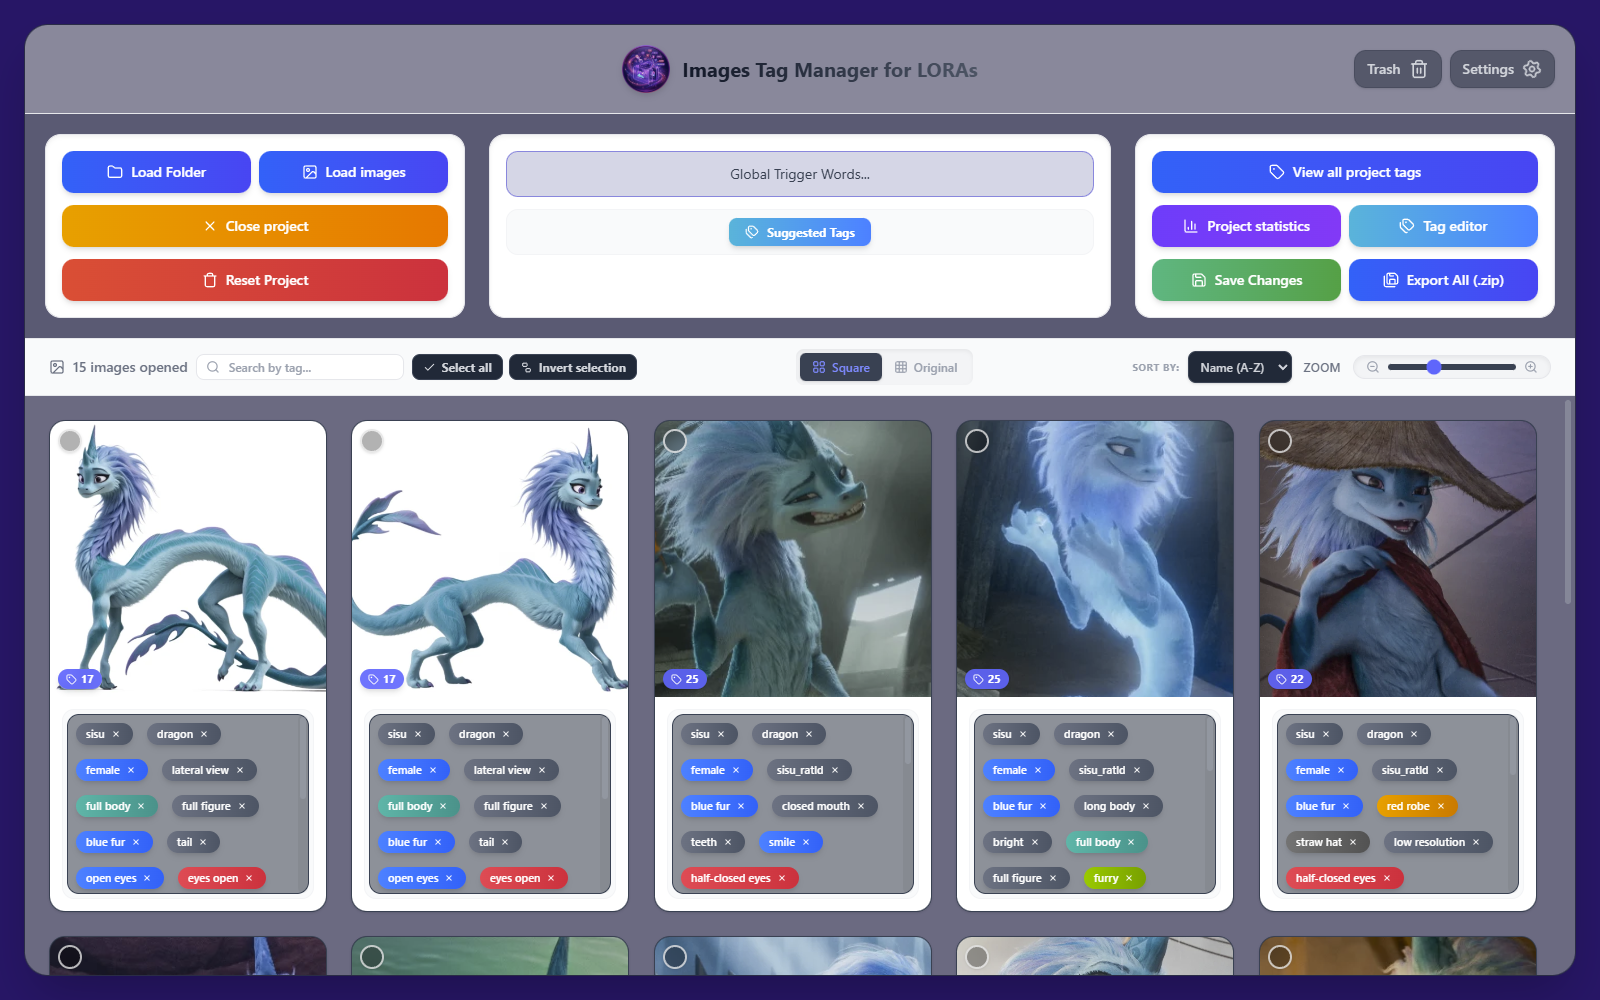
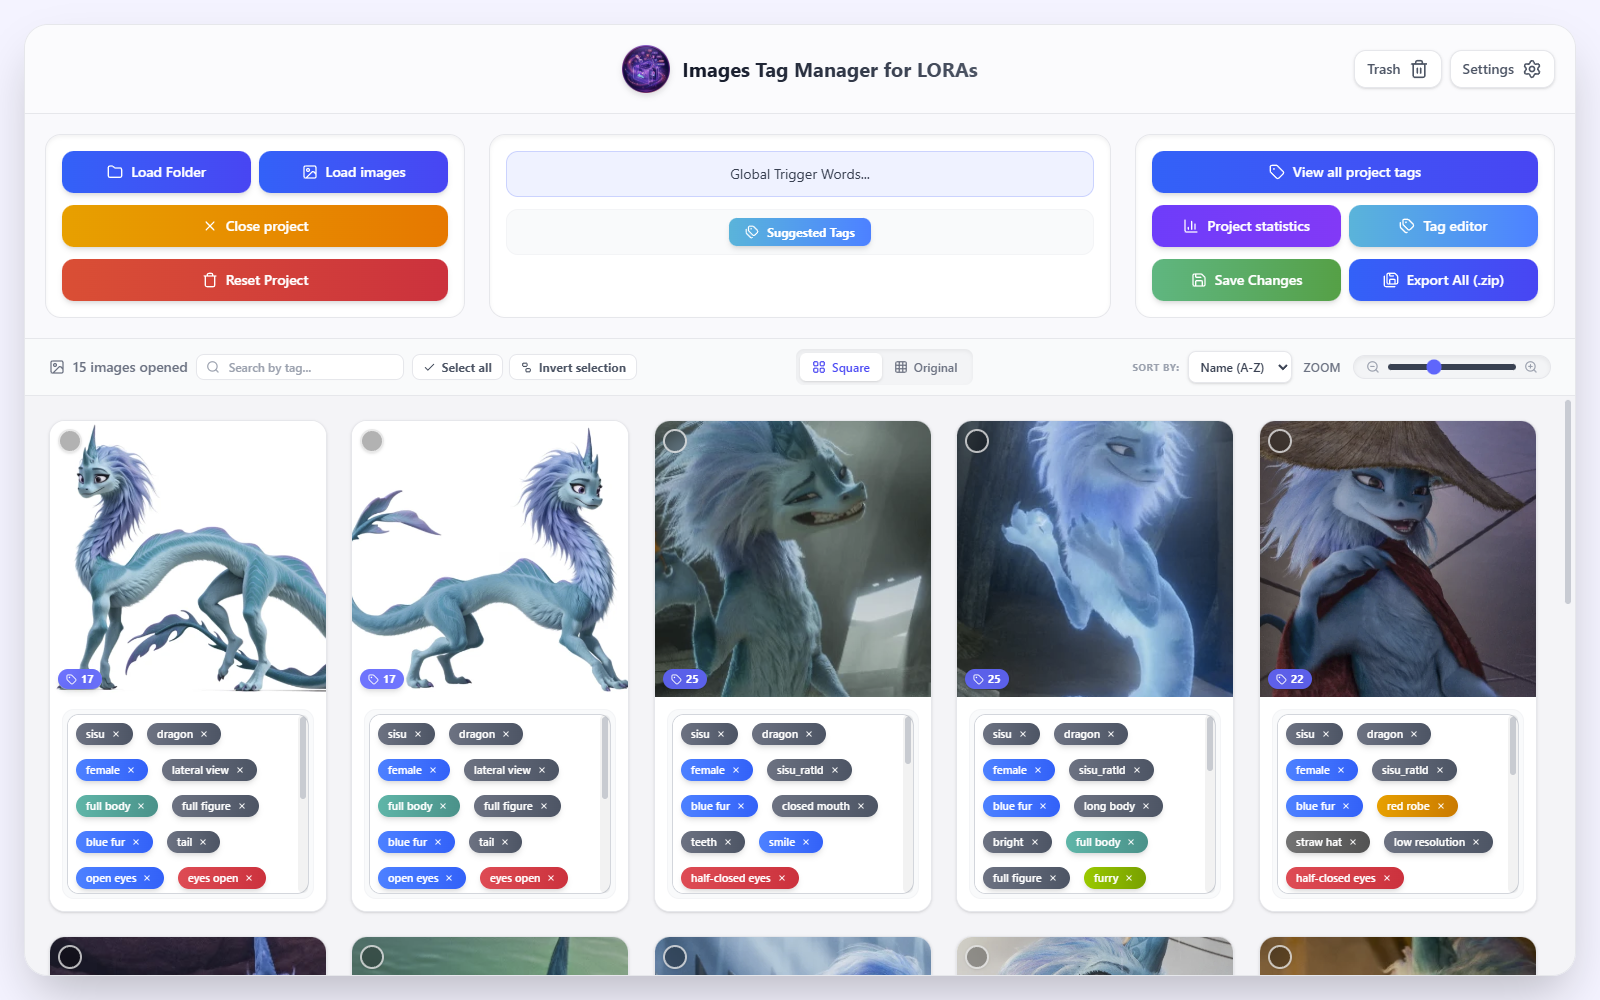
docs: cinque funzioni in piu' e via le istruzioni da riga di comando
Aggiunte le schermate che mancavano — riepilogo dell'importazione, pannello
dei tag suggeriti, trigger words applicate a tutte le foto, elenco dei tag
del progetto e vista a immagini intere — per un totale di 15 schede.

Il README non spiega piu' come compilare il programma: si scaricano il
portable o l'installer dalla pagina delle release, come vuole Matteo.

Lo scatto del tema chiaro aspetta 4 secondi dopo l'interruttore: prima
restavano dei pezzi ancora scuri per via delle transizioni.

diff --git a/README.md b/README.md
@@ -26,25 +26,35 @@ It runs entirely on your machine and sends **no telemetry**. Cloud AI tagging is
 
 <img src="docs/img/features/01-gallery.jpg" alt="The gallery: your whole dataset on one screen, every image next to its own tags" width="100%" />
 
-<img src="docs/img/features/02-bulk-tagging.jpg" alt="Bulk tagging: tag hundreds of images at once, with a legend explaining each tag pill" width="100%" />
+<img src="docs/img/features/02-import.jpg" alt="Import: the app counts images and .txt files and shows a summary before importing anything" width="100%" />
 
-<img src="docs/img/features/03-tag-search.jpg" alt="Tag search: type one or more tags and the gallery keeps only the images that carry them" width="100%" />
+<img src="docs/img/features/03-bulk-tagging.jpg" alt="Bulk tagging: tag hundreds of images at once, with a legend explaining each tag pill" width="100%" />
 
-<img src="docs/img/features/04-lightbox.jpg" alt="Full-screen viewer: the photo at full quality with every tag of the project one click away" width="100%" />
+<img src="docs/img/features/04-tag-search.jpg" alt="Tag search: type one or more tags and the gallery keeps only the images that carry them" width="100%" />
 
-<img src="docs/img/features/05-tag-editor.jpg" alt="Tag file editor: open, create and rewrite any .txt or .json tag file" width="100%" />
+<img src="docs/img/features/05-suggested-tags.jpg" alt="Suggested tags: twenty-seven categories of ready-made tags, about a thousand of them" width="100%" />
 
-<img src="docs/img/features/06-statistics.jpg" alt="Statistics: six metrics, category pie chart, top 10 tags and a searchable list of every tag" width="100%" />
+<img src="docs/img/features/06-trigger-words.jpg" alt="Trigger words: one word typed once lands in front of the tag list of every image" width="100%" />
 
-<img src="docs/img/features/07-ai-settings.jpg" alt="Optional AI: Gemini writes the first draft, off by default, with your own encrypted API key" width="100%" />
+<img src="docs/img/features/07-project-tags.jpg" alt="Project tags: the whole vocabulary of the project in one list, exportable as JSON or TXT" width="100%" />
 
-<img src="docs/img/features/08-trash.jpg" alt="Trash: removed photos are recoverable and files go to the Windows Recycle Bin" width="100%" />
+<img src="docs/img/features/08-lightbox.jpg" alt="Full-screen viewer: the photo at full quality with every tag of the project one click away" width="100%" />
 
-<img src="docs/img/features/09-light-theme.jpg" alt="Light and dark theme, chosen by hand rather than following Windows" width="100%" />
+<img src="docs/img/features/09-tag-editor.jpg" alt="Tag file editor: open, create and rewrite any .txt or .json tag file" width="100%" />
 
-<img src="docs/img/features/10-languages.jpg" alt="Nine languages, installer included" width="100%" />
+<img src="docs/img/features/10-statistics.jpg" alt="Statistics: six metrics, category pie chart, top 10 tags and a searchable list of every tag" width="100%" />
 
-Plus: curated tag suggestions by category, global trigger words, project-wide tag manager, NSFW `+18` badges, ZIP / JSON / TXT export, copy & paste tags between photos, undo & redo, and a crash-recovery backup.
+<img src="docs/img/features/11-views.jpg" alt="Two views: square crops or the whole frame, with zoom and sorting" width="100%" />
+
+<img src="docs/img/features/12-ai.jpg" alt="Optional AI: Gemini writes the first draft, off by default, with your own encrypted API key" width="100%" />
+
+<img src="docs/img/features/13-trash.jpg" alt="Trash: removed photos are recoverable and files go to the Windows Recycle Bin" width="100%" />
+
+<img src="docs/img/features/14-light-theme.jpg" alt="Light and dark theme, chosen by hand rather than following Windows" width="100%" />
+
+<img src="docs/img/features/15-languages.jpg" alt="Nine languages, installer included" width="100%" />
+
+Plus: NSFW `+18` badges, ZIP / JSON / TXT export, copy & paste tags between photos, undo & redo, tag names translated on hover, and a crash-recovery backup that survives a power cut.
 
 ---
 
@@ -77,52 +87,6 @@ Get a key at [Google AI Studio](https://aistudio.google.com/app/apikey) → *Cre
 *   The Gemini API key is stored encrypted through Electron `safeStorage` (OS keychain) — never in plain `localStorage`, never inside the bundle.
 *   File paths reaching the disk IPC are validated (no UNC, no `..`, no relative paths), and names written to disk or into ZIP archives are sanitized against path traversal and Windows reserved names.
 *   A React `ErrorBoundary` shows a recovery screen instead of a blank window.
-
----
-
-## 🛠 Build from source
-
-Requires [Node.js](https://nodejs.org/) 18 or newer.
-
-```bash
-npm install
-```
-
-Run it in the browser for development:
-
-```bash
-npm run dev
-```
-
-Run it as a real desktop app:
-
-```bash
-npm run electron:dev
-```
-
-Produce the portable `.exe` and the installer (both land in `release/`):
-
-```bash
-npm run electron:build
-```
-
-### Regenerating the images of this page
-
-The cover and the feature cards above are generated, not hand-made. With the dev server running:
-
-```bash
-npx electron scripts/make-readme-shots.mjs --folder "C:\path\to\a\tagged\dataset"
-```
-
-```bash
-npx electron scripts/make-cover.mjs
-```
-
-```bash
-npx electron scripts/make-feature-cards.mjs
-```
-
-Without `--folder` the first script draws its own sample images, so it works on any machine.
 
 ---
 

diff --git a/STATO-SVILUPPO.md b/STATO-SVILUPPO.md
@@ -2,6 +2,14 @@
 
 **Ultimo aggiornamento:** 25 luglio 2026
 **Versione attuale:** 1.1.0
+Novità (traguardo 86): **pagina di presentazione del progetto rifatta**. In cima c'è ora una
+**copertina** (logo, nome del programma e la finestra vera inclinata in prospettiva) e sotto
+**dieci schede**, una per ogni funzione: a sinistra il titolo con tre righe che spiegano, a destra
+la schermata del programma intera e dritta — e ad ogni scheda testo e immagine si scambiano di
+lato. Le schermate sono state prese con una **cartella vera già taggata** (Sisu), con il programma
+in **inglese**. Non sono immagini fatte a mano: tre programmini le **rigenerano da sole**, quindi
+se domani cambia un pulsante basta rilanciarli invece di rifare gli screenshot a mano. Copertina e
+schede sono salvate in JPEG, così la pagina pesa 1,4 MB invece di 6.
 Novità 1.1.0 (traguardo 85): **prima versione "tonda"**. Non è un cambiamento singolo: è il numero
 che raccoglie tutto il lavoro fatto dalla 1.0.6 in poi (tre giri di controllo automatico con le
 riparazioni, l'intelligenza artificiale portata a Gemini 3.6 Flash, il tasto "Elimina selezionate",
